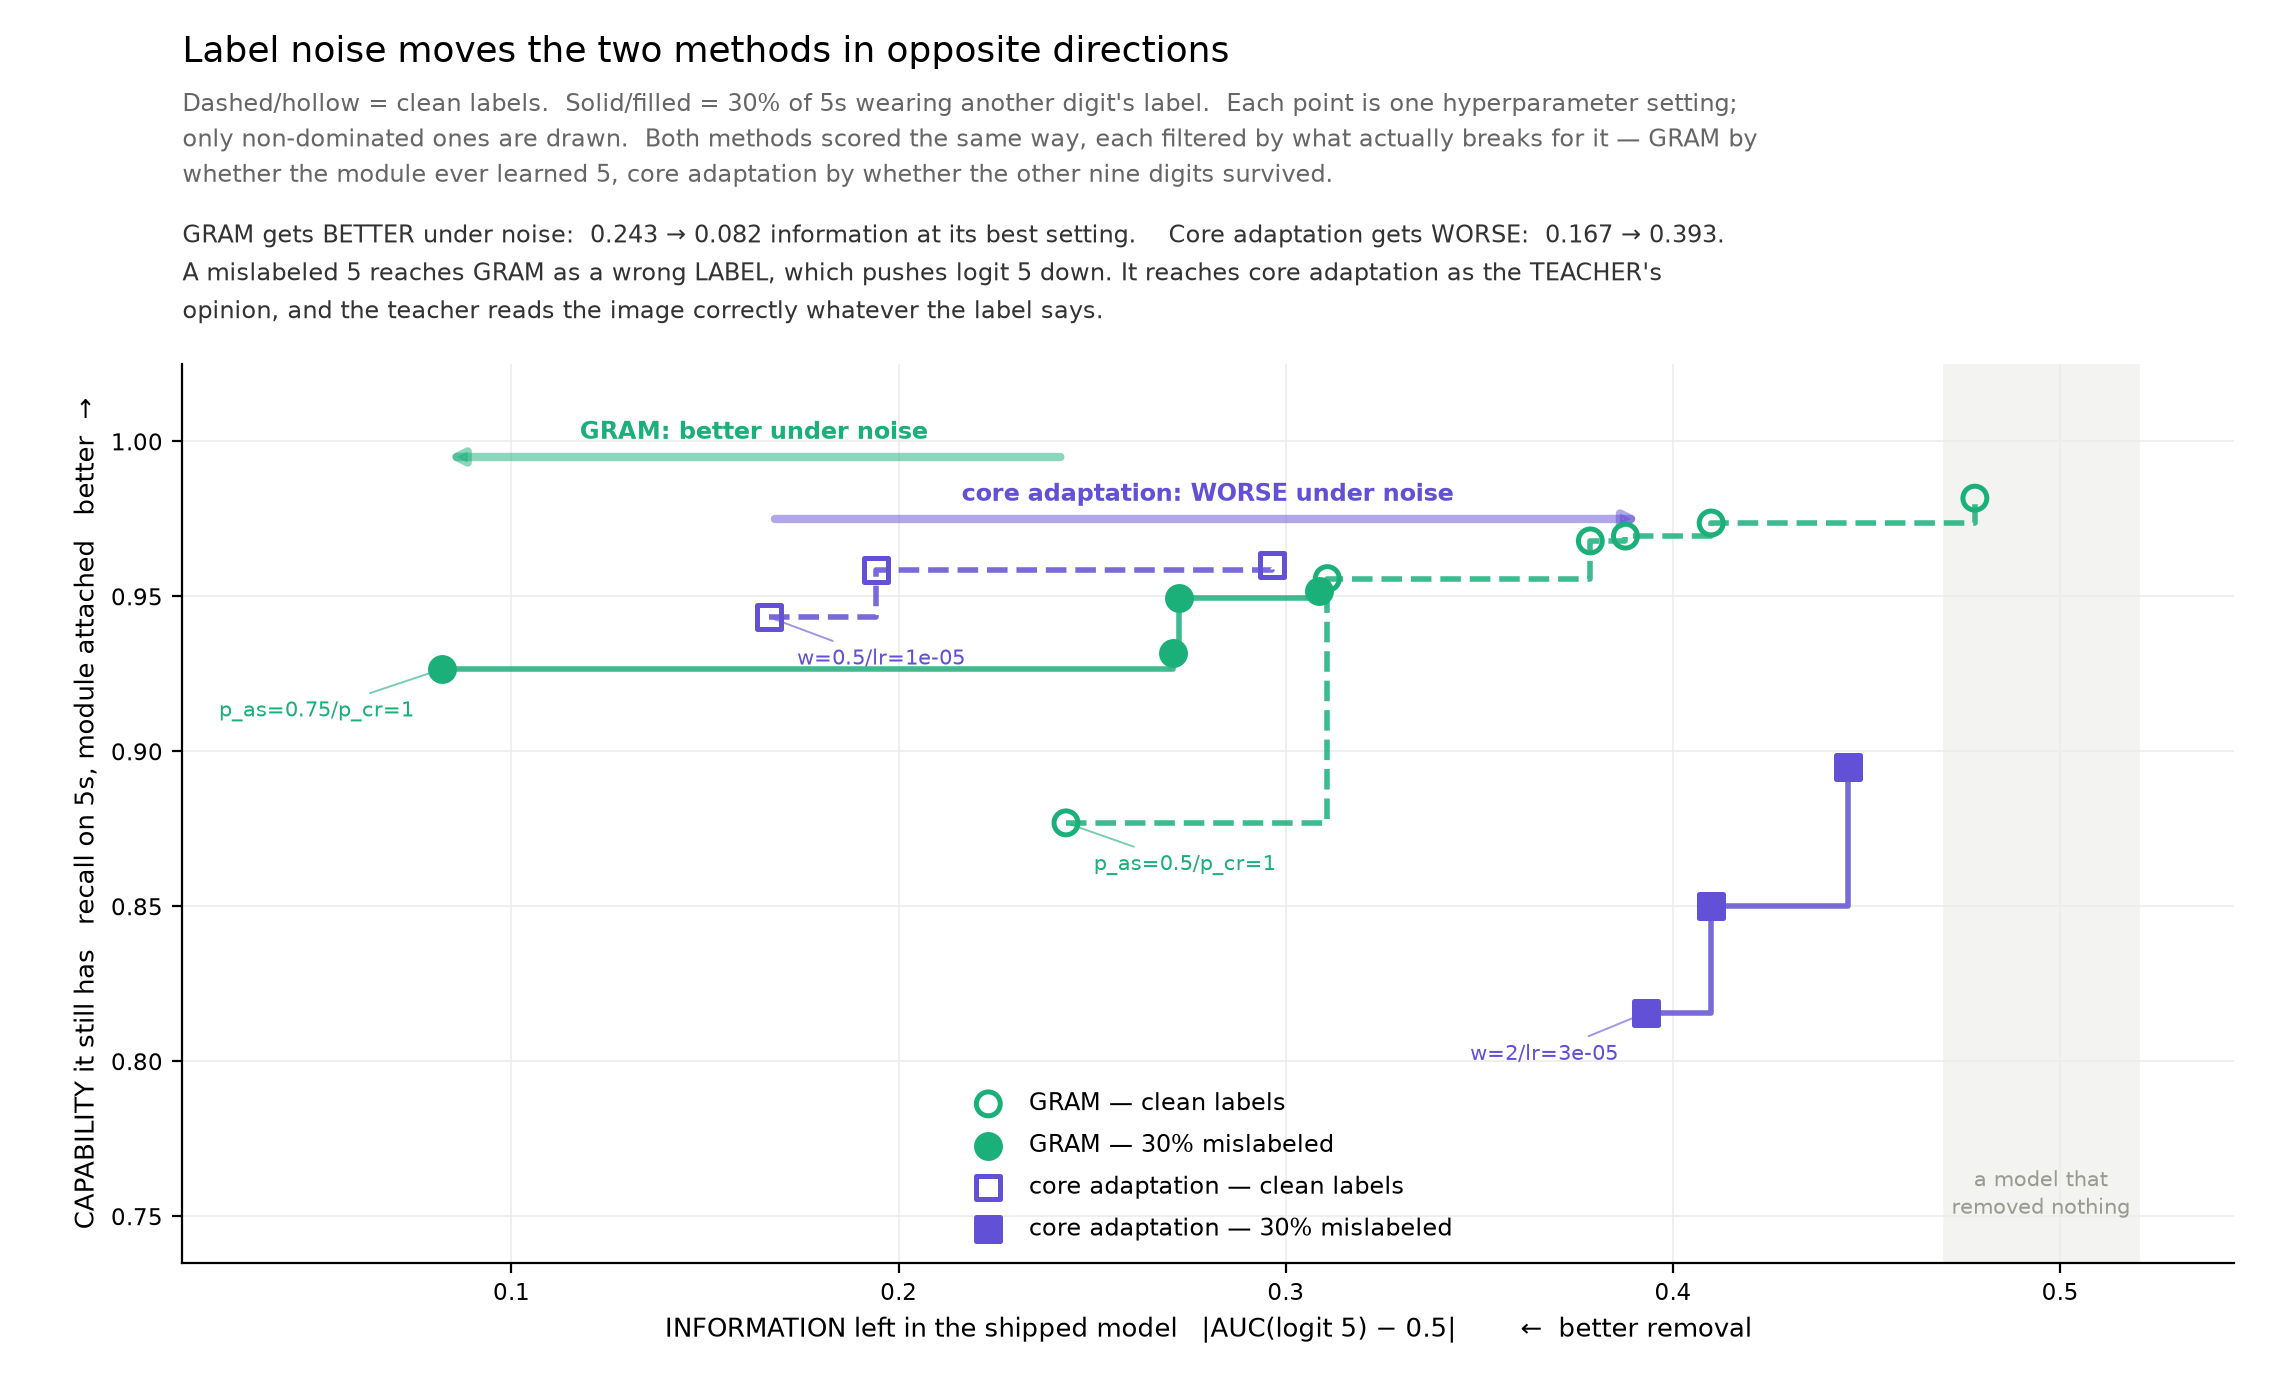
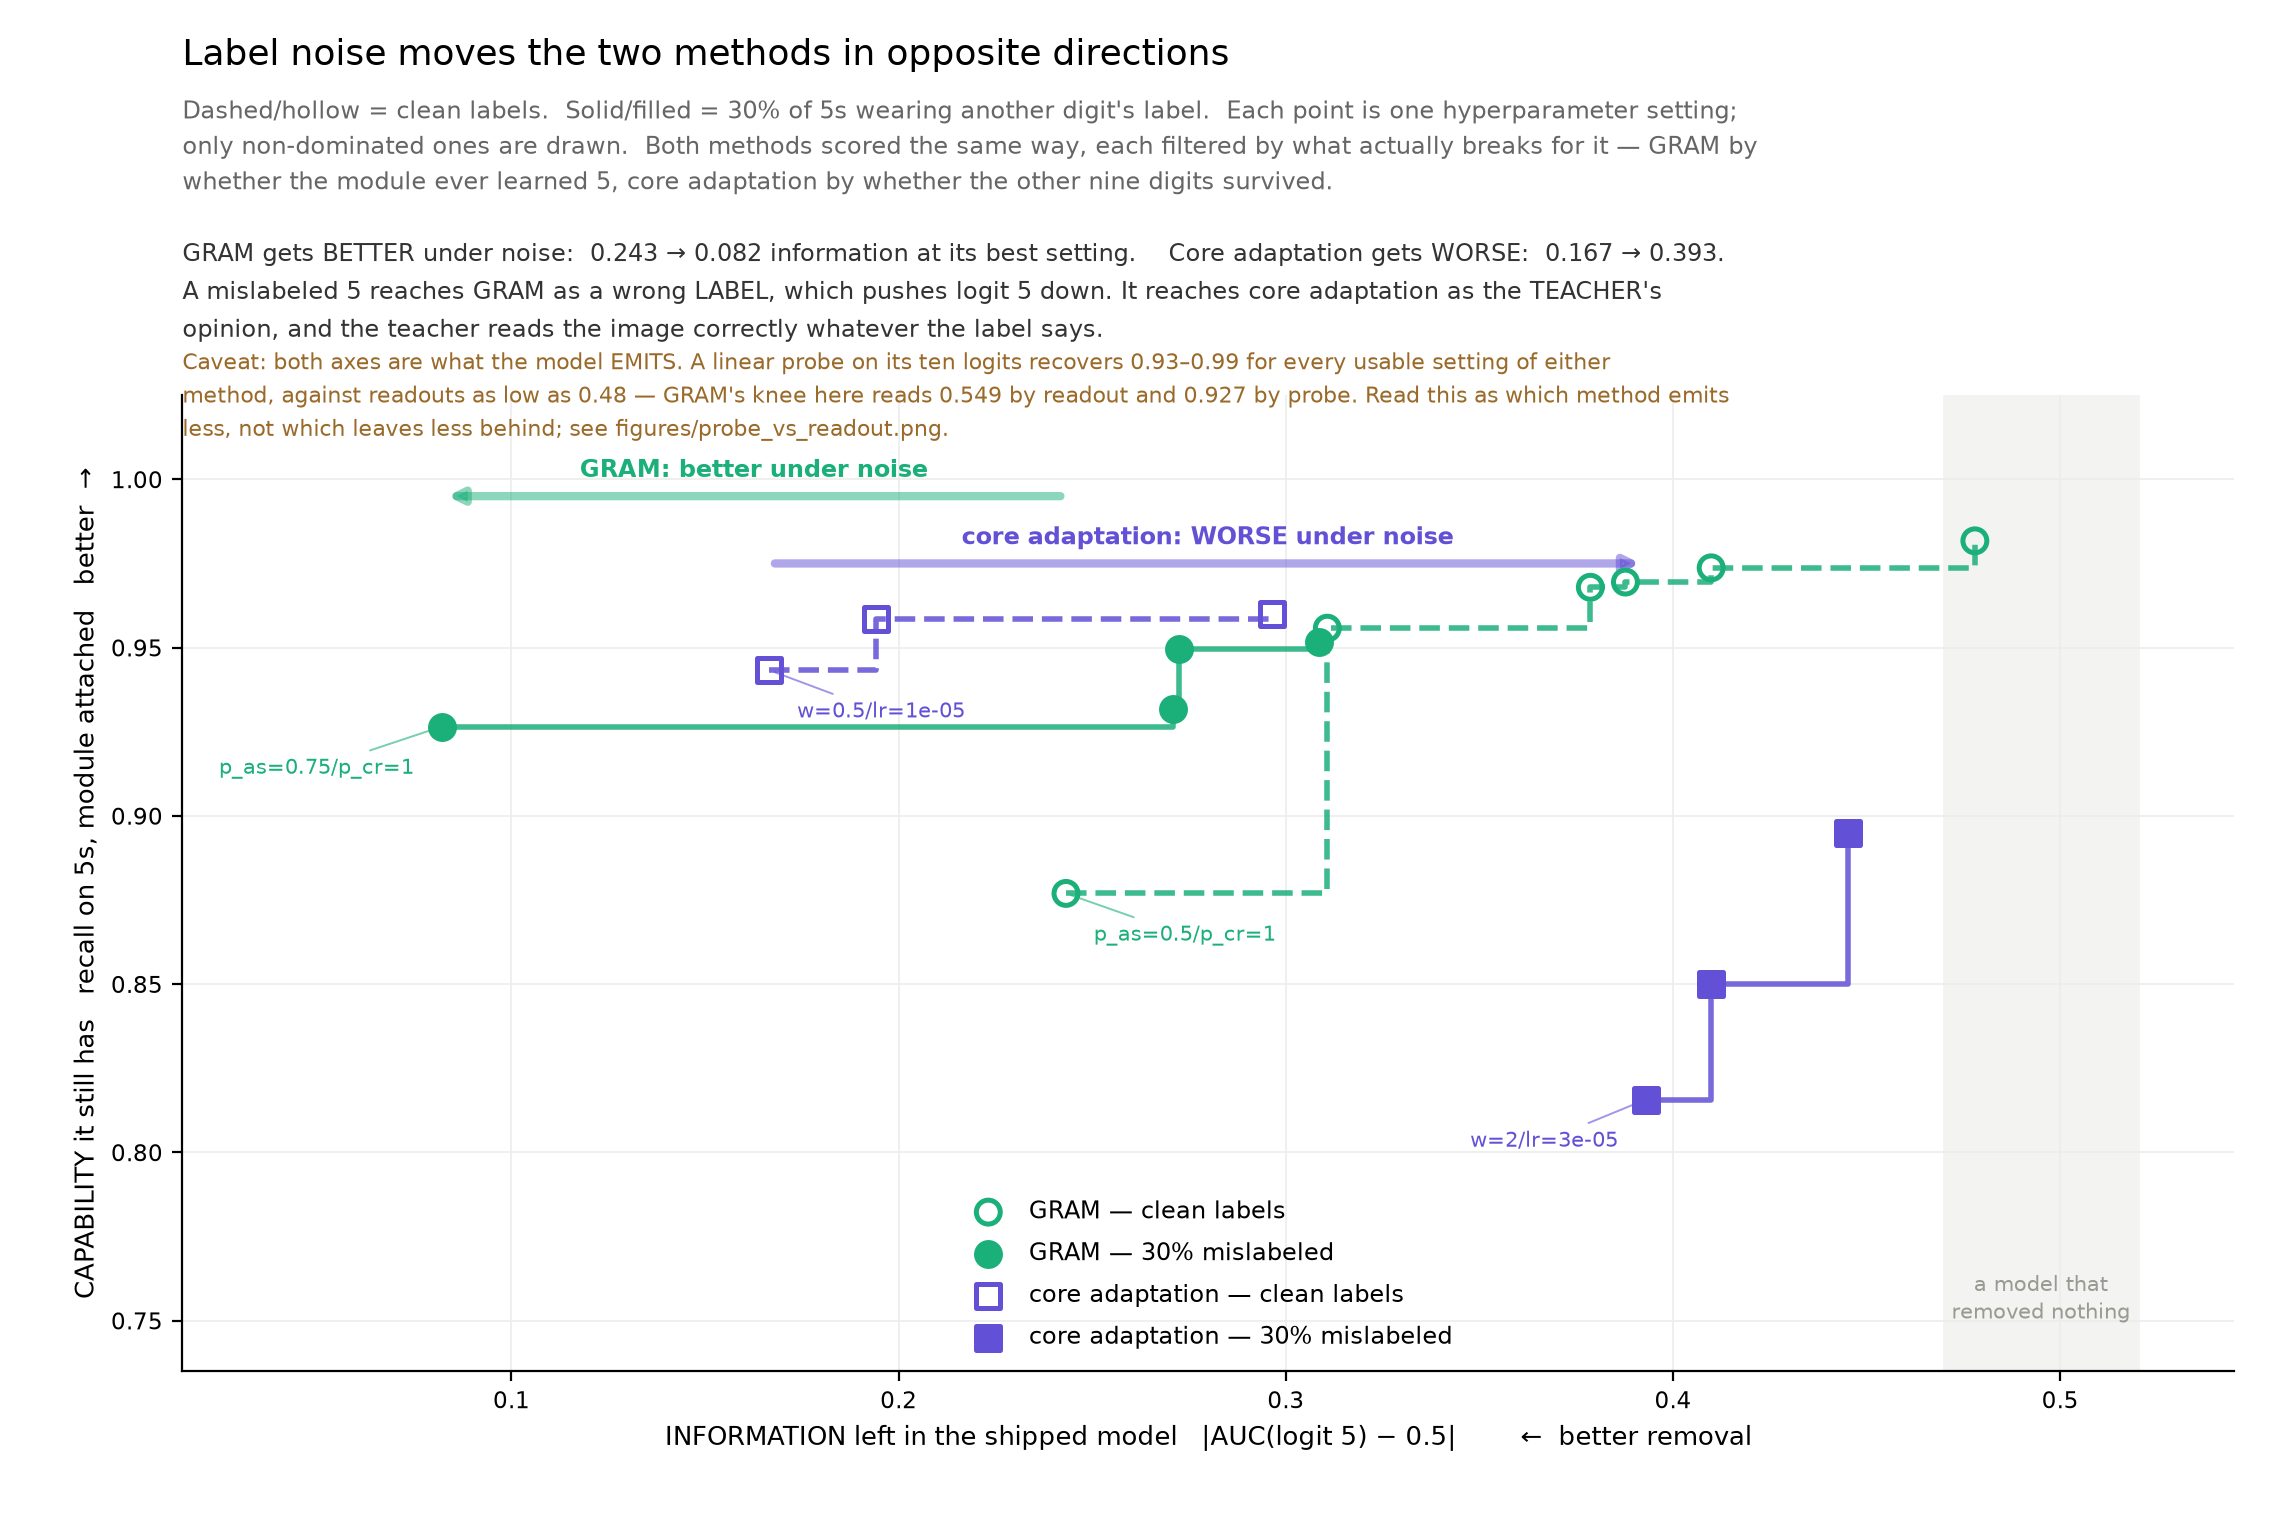
Fix the probe: LBFGS instead of a fixed SGD budget, and caveat compare_pareto
The binary probe was fitted by SGD for a fixed number of epochs, and that was wrong
twice over. Fitting a linear head is a small CONVEX problem, so the answer should not
depend on how long a first-order optimiser ran -- and it did. On one checkpoint the probe
read 0.8364 at 15 epochs, 0.8849 at 60, 0.9319 at 200, still climbing. LBFGS gives 0.9552
in under a second.

0.8364 is also BELOW that model's own raw logit-5 AUC of 0.8370, which is impossible for
a converged probe: "use logit 5 alone" is one of the linear combinations available to it.
That ordering is now the sanity check -- probe < readout happened constantly with the SGD
fit and in 0 of 166 cells with LBFGS.

An underfit probe understates what an attacker can recover, which is the one direction an
elicitation instrument must never err in. Every probe number produced by the old version
is discarded rather than patched; the scale study is being rerun from scratch for the same
reason.

compare_pareto.png is unaffected -- both its axes are the model's own behaviour, never a
probe -- but it now carries the caveat the probe results imply. Every usable setting of
either method has a logits-probe AUC of 0.93-0.99 against readouts as low as 0.48; GRAM's
highlighted knee reads 0.549 by readout and 0.927 by probe. The figure says which method
EMITS less, not which leaves less behind.

diff --git a/scale_study.py b/scale_study.py
@@ -52,10 +52,7 @@ ARMS = {  # name -> (train kwargs, shipped mask, partitions an attacker owns)
     "core_adapt5": (None, (0, 0), ("core",)),
 }
 CA_CYCLES = 60          # the operating point established in CORE_ADAPTATION.md
-# The probe was the bottleneck: 5 stages x 60 epochs x 12 batches = 3600 tiny
-# optimizer steps per cell, pure interpreter overhead, leaving 90+ cores idle.
-# Full-batch LBFGS-style fitting on a linear head converges in far fewer passes.
-PROBE_EPOCHS, ATTACK_STEPS, ATTACK_BATCH = 15, 300, 32
+ATTACK_STEPS, ATTACK_BATCH = 300, 32
 
 
 def stages_of(model, x, mask, bs=2048):
@@ -74,22 +71,38 @@ def stages_of(model, x, mask, bs=2048):
     return {k: torch.cat(v) for k, v in outs.items()}
 
 
-def binary_probe_auc(ftr, ytr_bin, fte, yte_bin, seed):
-    """One-logit 5-vs-rest probe, scored by AUC -- the ranking question, asked directly."""
+def binary_probe_auc(ftr, ytr_bin, fte, yte_bin, seed, iters=200):
+    """One-logit 5-vs-rest probe, fitted with LBFGS and scored by AUC.
+
+    This was SGD for a fixed epoch budget, and that was wrong twice over. Fitting a linear
+    head is a small CONVEX problem, so the answer should not depend on how long a first-order
+    optimiser was allowed to run -- and it did: on the same checkpoint the probe read 0.8364
+    at 15 epochs, 0.8849 at 60 and 0.9319 at 200, still climbing. Worse, 0.8364 is BELOW the
+    model's own raw logit-5 AUC of 0.8370, which is impossible for a converged probe, since
+    'use logit 5 alone' is one of the linear combinations available to it. An underfit probe
+    silently understates what an attacker can recover, which is the one direction an
+    elicitation instrument must never err in.
+
+    LBFGS solves it properly in one shot and is faster than the epoch loop it replaces.
+    """
     torch.manual_seed(seed)
     mu, sd = ftr.mean(0, keepdim=True), ftr.std(0, keepdim=True) + 1e-6
     ftr, fte = (ftr - mu) / sd, (fte - mu) / sd
     head = torch.nn.Linear(ftr.shape[1], 1)
-    opt = torch.optim.AdamW(head.parameters(), lr=1e-2, weight_decay=1e-4)
-    gen = torch.Generator().manual_seed(seed)
-    pos_w = torch.tensor([(ytr_bin == 0).sum() / max(1, (ytr_bin == 1).sum())])
-    for _ in range(PROBE_EPOCHS):
-        perm = torch.randperm(len(ftr), generator=gen)
-        for i in range(0, len(ftr), 4096):
-            b = perm[i:i + 1024]
-            loss = F.binary_cross_entropy_with_logits(
-                head(ftr[b]).squeeze(1), ytr_bin[b].float(), pos_weight=pos_w)
-            opt.zero_grad(); loss.backward(); opt.step()
+    pos_w = torch.tensor([(ytr_bin == 0).sum() / max(1, (ytr_bin == 1).sum())], dtype=torch.float)
+    y = ytr_bin.float()
+    opt = torch.optim.LBFGS(head.parameters(), max_iter=iters, history_size=20,
+                            tolerance_grad=1e-9, tolerance_change=1e-12,
+                            line_search_fn="strong_wolfe")
+
+    def closure():
+        opt.zero_grad()
+        loss = F.binary_cross_entropy_with_logits(head(ftr).squeeze(1), y, pos_weight=pos_w)
+        loss = loss + 1e-4 * head.weight.pow(2).sum()        # keeps it finite if separable
+        loss.backward()
+        return loss
+
+    opt.step(closure)
     with torch.no_grad():
         return auc(head(fte).squeeze(1).numpy(), yte_bin.numpy().astype(bool))
 

diff --git a/figs_compare_pareto.py b/figs_compare_pareto.py
@@ -86,7 +86,7 @@ for rate in (0.0, 0.3):
                         lab=f"w={w:g}/lr={lr:g}"))
     CA[rate] = front(pts)
 
-fig, ax = plt.subplots(figsize=(11.4, 7.0), dpi=200)
+fig, ax = plt.subplots(figsize=(11.4, 7.6), dpi=200)
 fig.subplots_adjust(left=0.080, right=0.980, top=0.740, bottom=0.098)
 
 SERIES = [
@@ -158,6 +158,17 @@ fig.text(0.080, 0.845,
          "core adaptation as the TEACHER's\nopinion, and the teacher reads the image "
          "correctly whatever the label says.",
          fontsize=8.8, color=INK, linespacing=1.55, va="top")
+# Both axes here are the model's OWN behaviour. A linear probe fitted on the ten logits
+# recovers far more than logit 5 alone, for every usable setting of either method -- so this
+# figure says which method EMITS less, not which leaves less behind.
+fig.text(0.080, 0.772,
+         "Caveat: both axes are what the model EMITS. A linear probe on its ten logits "
+         "recovers 0.93\u20130.99 for every usable setting of either\nmethod, against readouts "
+         "as low as 0.48 \u2014 GRAM's knee here reads 0.549 by readout and 0.927 by probe. "
+         "Read this as which method emits\nless, not which leaves less behind; see "
+         "figures/probe_vs_readout.png.",
+         fontsize=8.0, color="#9a6a2a", linespacing=1.5, va="top")
+
 out = f"{HERE}/figures/compare_pareto.png"
 fig.savefig(out)
 print(out)
